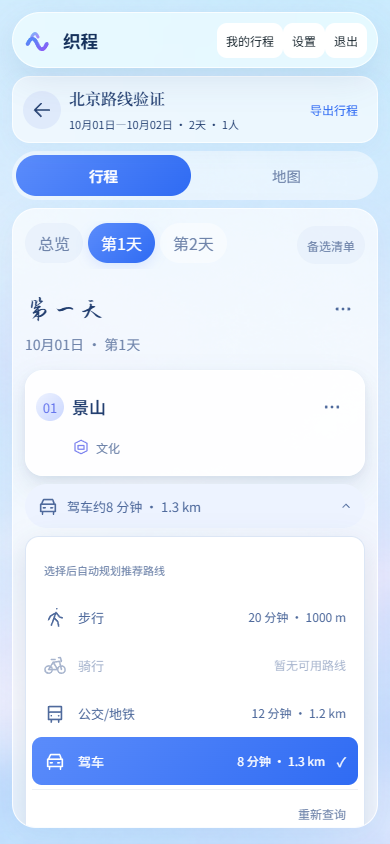
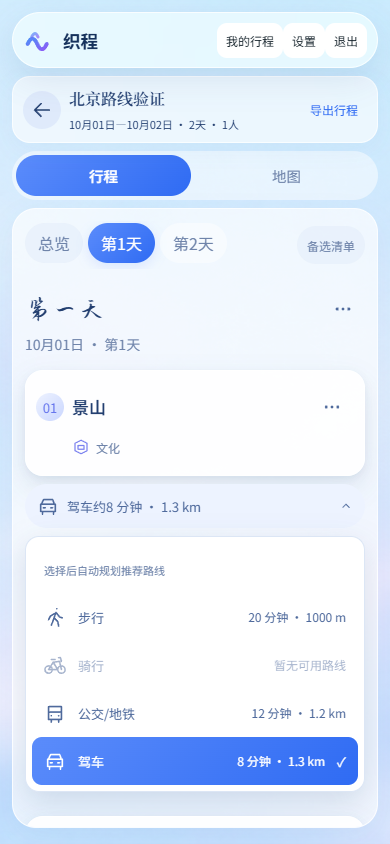
fix(routes): 仅查询失败时显示重试按钮

Changed region(s): [[0.0615, 0.9242, 0.9538, 0.9858]]

diff --git a/apps/web/src/components/editor/RouteOptions.tsx b/apps/web/src/components/editor/RouteOptions.tsx
@@ -97,12 +97,12 @@ function RouteOptionsForPair({ pairKey, tripId, input, dayId, leg }: {
           </button>;
         })}
         {leg && leg.source !== 'heuristic' && !leg.polyline && <p className="px-3 py-2 text-xs">此路线暂无路径图，地图显示地点连线。</p>}
-        <div className="mt-1 flex justify-end border-t border-[var(--color-editor-menu-list-border-top-89)] pt-1">
+        {(error || backgroundError || refreshing) && <div className="mt-1 flex justify-end border-t border-[var(--color-editor-menu-list-border-top-89)] pt-1">
           <button type="button" className="inline-flex min-h-10 items-center gap-1.5 rounded-full border-0 bg-transparent px-3 text-xs text-[var(--editor-muted)] shadow-none hover:bg-[var(--color-editor-menu-list-background-87)] disabled:cursor-not-allowed" disabled={!valid || refreshing || queries.some((q) => q.isFetching)} aria-busy={refreshing} onClick={() => void retry()}>
             {refreshing && <svg className="animate-spin motion-reduce:animate-none" width="14" height="14" viewBox="0 0 24 24" fill="none" stroke="currentColor" strokeWidth="2" aria-hidden="true"><circle className="opacity-25" cx="12" cy="12" r="9" /><path strokeLinecap="round" d="M12 3a9 9 0 0 1 9 9" /></svg>}
-            <span aria-live="polite">{refreshing ? '查询中…' : '重新查询'}</span>
+            <span aria-live="polite">{refreshing ? '查询中…' : '重试'}</span>
           </button>
-        </div>
+        </div>}
       </div>
     </details>
     {replan?.status === 'error' && <div role="alert" className="flex items-center gap-2 px-3 text-xs text-[var(--color-danger)]">

diff --git a/.trellis/spec/web/frontend/state-management.md b/.trellis/spec/web/frontend/state-management.md
@@ -39,7 +39,7 @@ Every replan has a unique request ID in addition to its endpoint fingerprint: ch
 
 Route disclosures share editor colours, rounded panels and gradient selection. Escape restores focus to the summary; pointer-outside dismisses. A null `relatedTarget` from a button becoming disabled must not dismiss the panel mid-refresh.
 
-Manual refresh sets local `refreshing` immediately and keeps the button disabled with a spinner, `aria-busy` and “查询中…” until all four queries settle (including failures). Use `Promise.allSettled` so one rejection does not end the loading indicator early. The label uses `aria-live`, and reduced-motion preferences disable spinner rotation.
+The route menu shows “重试” only after a query/selection error; normal prefetch and successful results have no refresh button or footer. Retry sets local `refreshing` immediately and keeps the button disabled with a spinner, `aria-busy` and “查询中…” until all four queries settle (including failures), then hides it on success. Use `Promise.allSettled` so one rejection does not end the loading indicator early. The label uses `aria-live`, and reduced-motion preferences disable spinner rotation.
 
 `useSaveTrip` uses the `editor-trip-save` React Query mutation scope to serialize writes: debouncing alone cannot prevent an older in-flight PUT from overwriting the latest transport selection. Browser regression: `node apps/web/tests/route-options-browser.mjs` includes a deliberately slow first save, rapid second selection, reload, stale response after move, partial failure and mobile overflow.
 

diff --git a/.trellis/tasks/09-28-replan-transit-after-move/prd.md b/.trellis/tasks/09-28-replan-transit-after-move/prd.md
@@ -26,7 +26,7 @@
 
 ## 验证
 
-- 后续交互补充：重新查询立即显示转圈图标与“查询中…”，所有方式结束后恢复；查询中禁用重复点击，支持减少动态效果。浏览器已验证 loading、禁用状态及恢复。
+- 后续交互补充：正常查询中和成功后不显示刷新按钮，仅失败时显示“重试”；点击立即显示转圈图标与“查询中…”，所有方式结束后成功则隐藏、失败则保留重试。查询中禁用重复点击，支持减少动态效果。浏览器验证正常隐藏、失败显示、loading 与成功隐藏。
 
 - 全仓 typecheck、web build 通过。
 - editorStore / recommendedRoute / routeQueryQueue 共 9 项测试通过。
